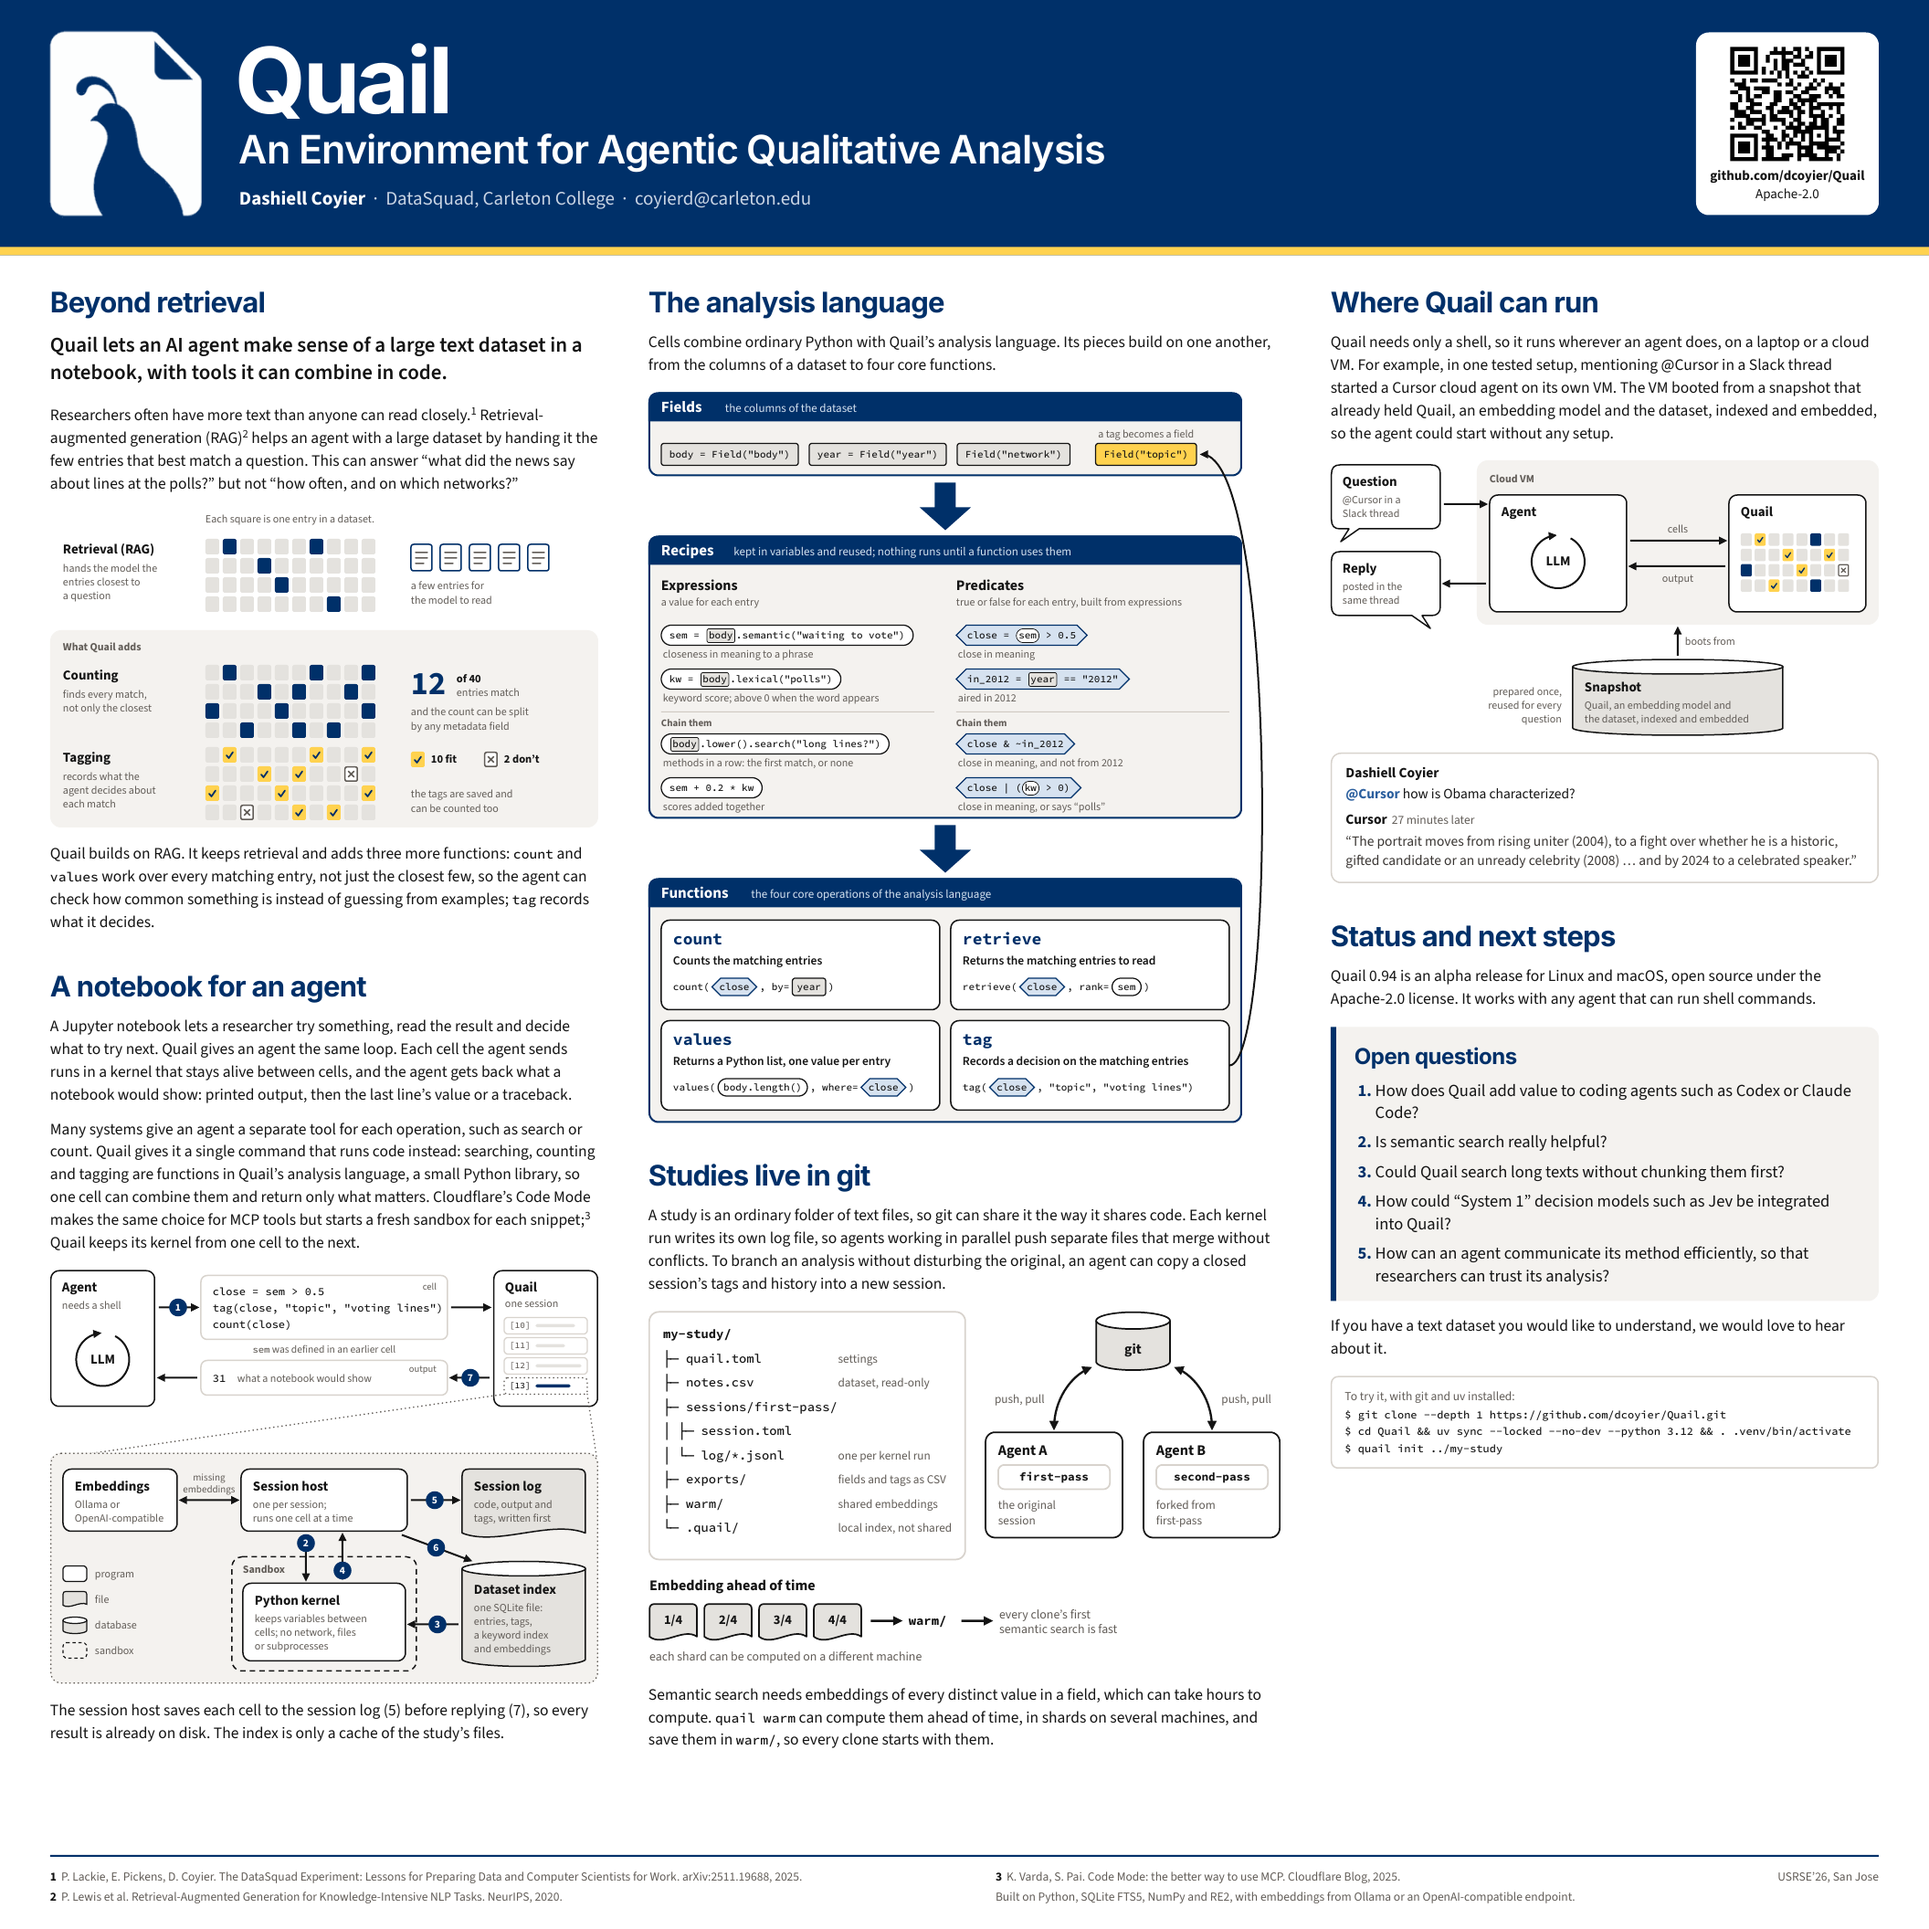
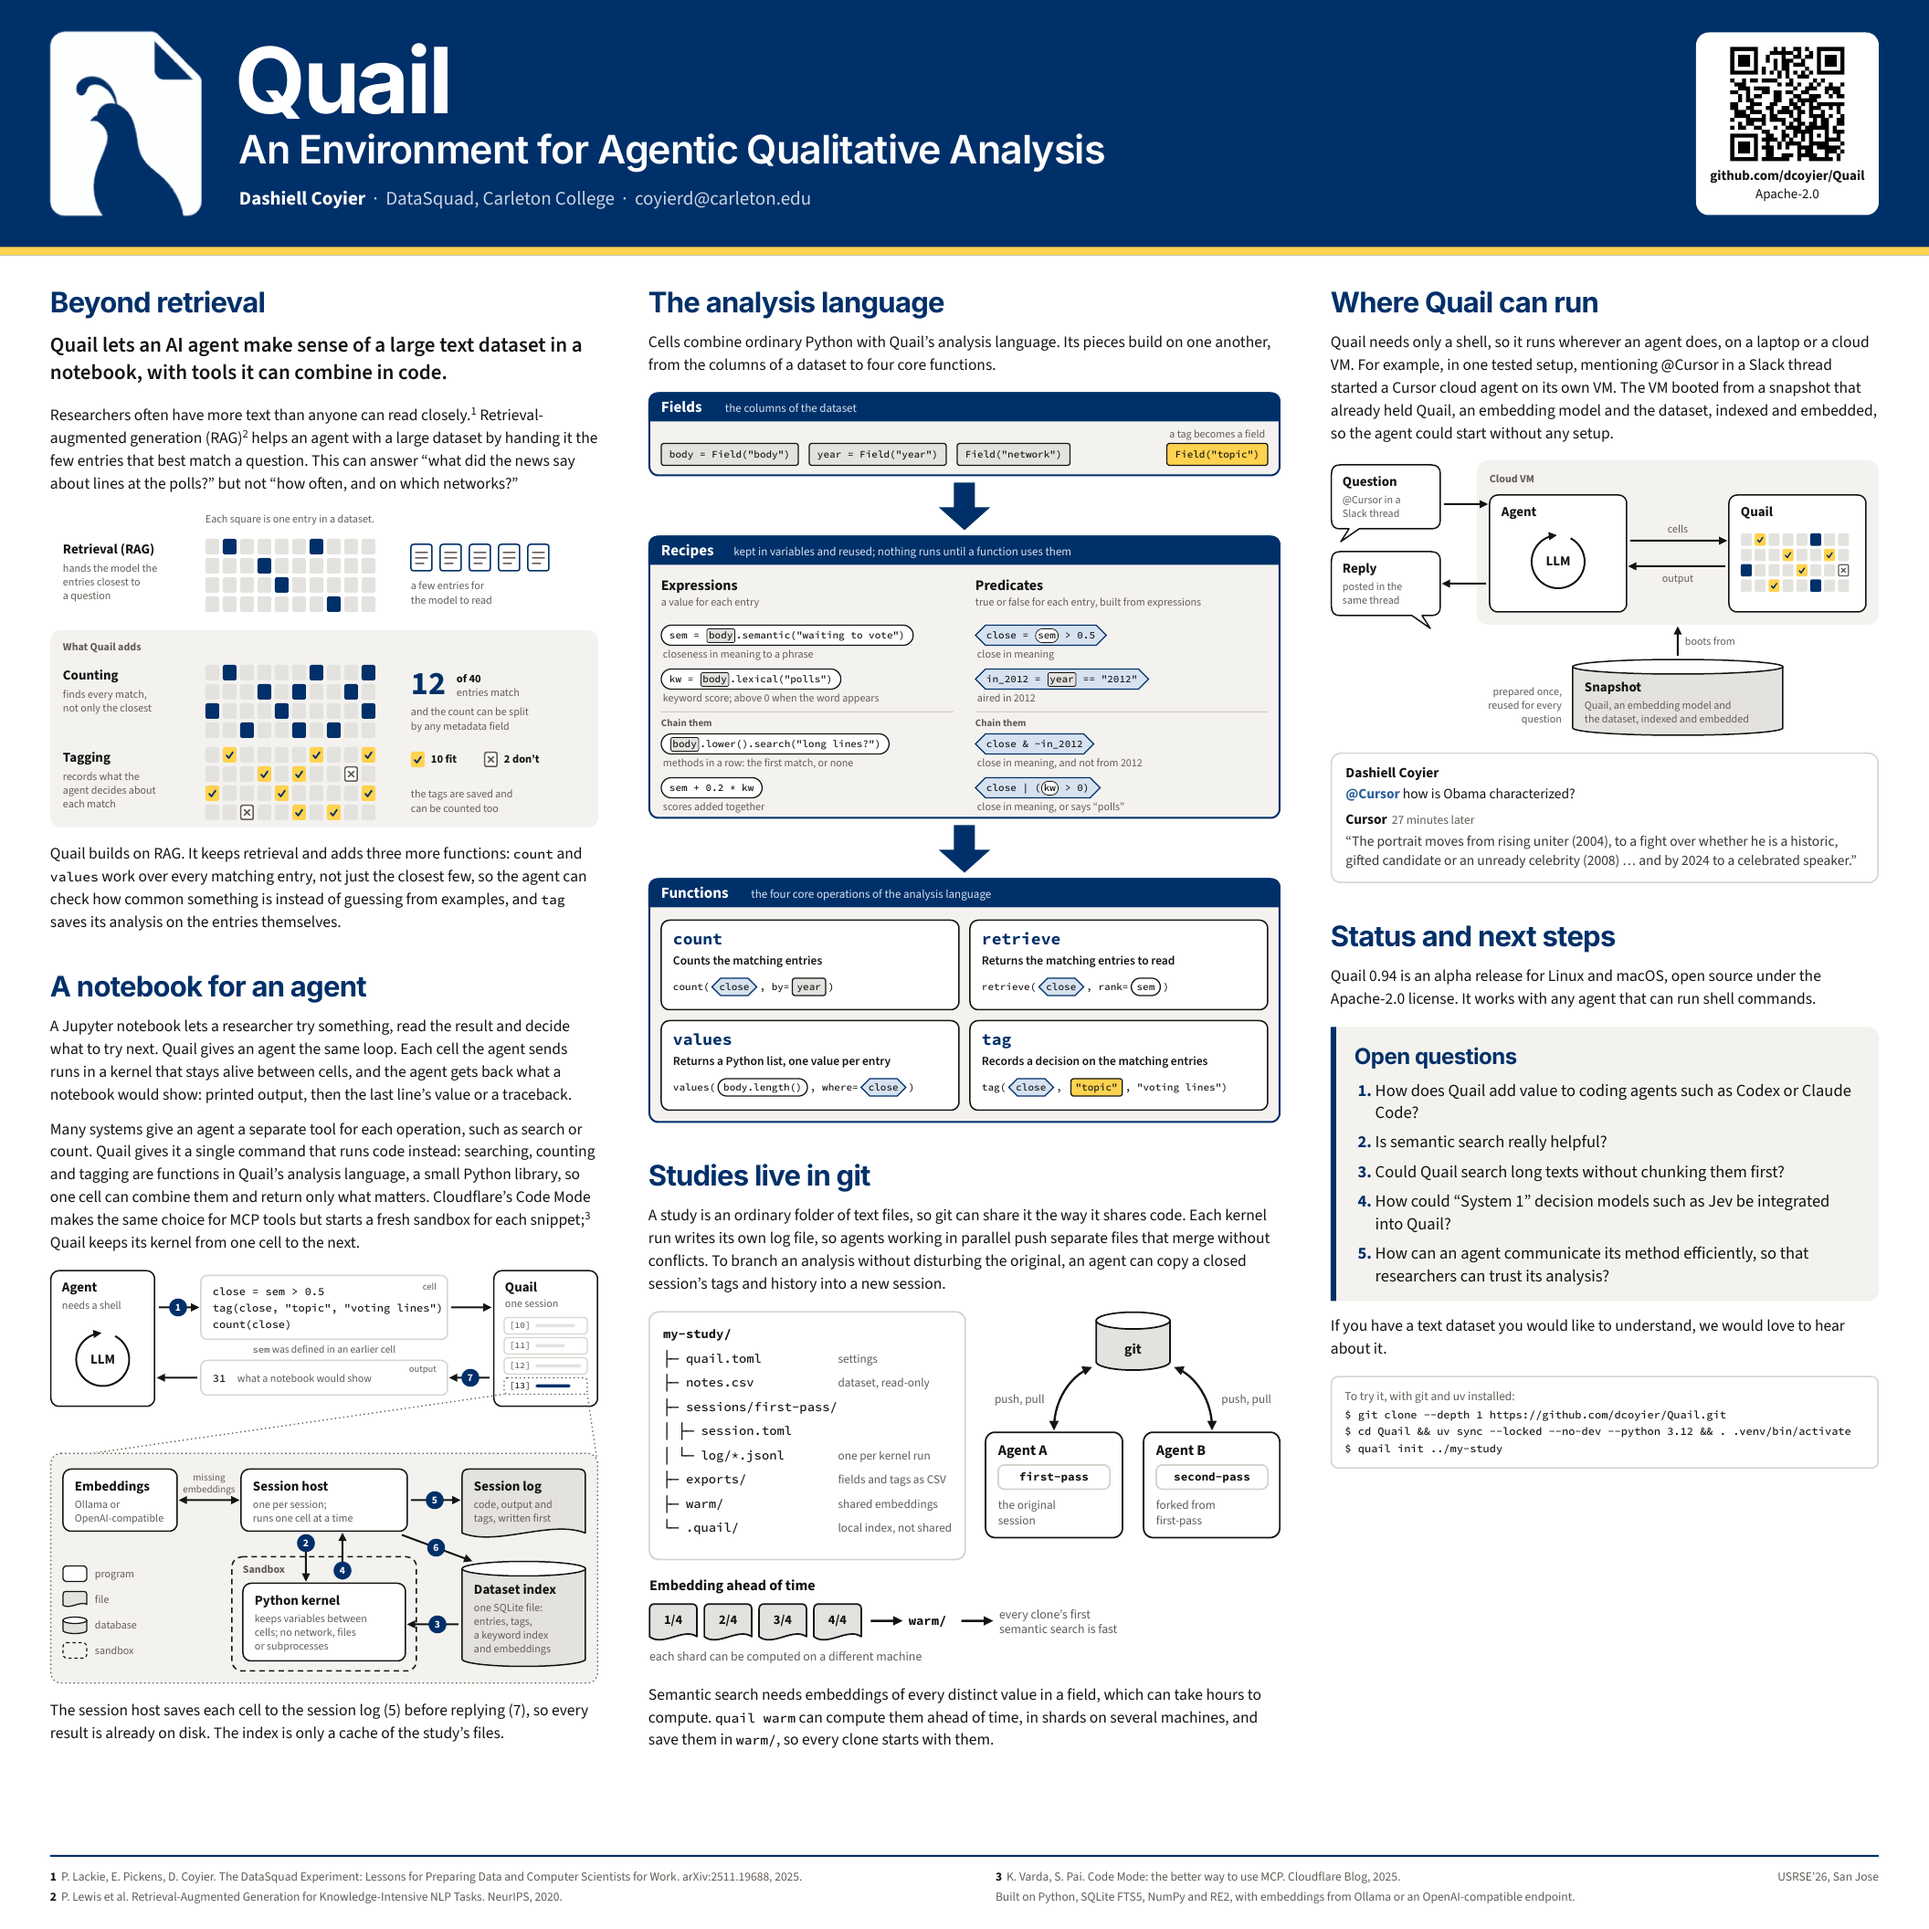
Mark the tag field in maize instead of drawing a loop to it
The language figure no longer draws an arrow from tag back to the
fields; "topic" in the tag example wears the maize tag-field chip, the
same as Field("topic") above, and the three levels use the full width
the arrow had kept free.

In the left column, tag "saves its analysis on the entries themselves"
rather than recording "what it decides".

Claude-Session: https://claude.ai/code/session_01ChZ8DmmKvsKSV4JFVieZLU

diff --git a/poster/poster.html b/poster/poster.html
@@ -29,7 +29,7 @@
   <p class="lede">Quail lets an AI agent make sense of a large text dataset in a notebook, with tools it can combine in code.</p>
   <p>Researchers often have more text than anyone can read closely.<sup>1</sup> Retrieval-augmented generation (RAG)<sup>2</sup> helps an agent with a large dataset by handing it the few entries that best match a question. This can answer &ldquo;what did the news say about lines at the polls?&rdquo; but not &ldquo;how often, and on which networks?&rdquo;</p>
   <figure><img src="figures/corpus.svg" alt="The same 40-entry dataset three times: retrieval picks five entries; counting finds all twelve matches; tagging marks ten as fitting and two as not"></figure>
-  <p>Quail builds on RAG. It keeps retrieval and adds three more functions: <code>count</code> and <code>values</code> work over every matching entry, not just the closest few, so the agent can check how common something is instead of guessing from examples; <code>tag</code> records what it decides.</p>
+  <p>Quail builds on RAG. It keeps retrieval and adds three more functions: <code>count</code> and <code>values</code> work over every matching entry, not just the closest few, so the agent can check how common something is instead of guessing from examples, and <code>tag</code> saves its analysis on the entries themselves.</p>
 </section>
 
 <section id="notebook">

diff --git a/poster/figures/language.py b/poster/figures/language.py
@@ -1,12 +1,12 @@
 """Writes language.svg: python3 poster/figures/language.py poster/figures/language.svg
 
 Analysis-language figure, top to bottom in the order things are built:
-Fields -> Recipes (expressions, predicates) -> Functions, with the tag loop back up.
+Fields -> Recipes (expressions, predicates) -> Functions; the tag field is maize wherever it appears.
 Mono text uses Source Code Pro's fixed advance (0.6 em) so code chips are sized exactly."""
 import sys
 from xml.sax.saxutils import escape
 
-W, CONTENT = 1384, 1300          # the right margin carries the tag loop
+W = CONTENT = 1384
 BLUE, MAIZE, BLUE_TINT = "#003069", "#FFD24F", "#D6E2F0"
 BAND, FIELD, INK = "#F4F2EF", "#E4E2DE", "#141414"
 MONO = 22
@@ -70,7 +70,7 @@ for parts in ([("body", None), (' = Field("body")', None)], [("year", None), (' 
     rrect(fx, chip_y, w, 48, "fieldchip", 6); t(fx + 18, chip_y + 32, text, "code"); fx += w + 24
 topic = 'Field("topic")'
 tw = code_w(topic) + 36
-tx = CONTENT - PAD - tw - 72
+tx = CONTENT - PAD - tw
 rrect(tx, chip_y, tw, 48, "tagchip", 6); t(tx + 18, chip_y + 32, topic, "code")
 t(tx + tw / 2, chip_y - 12, "a tag becomes a field", anchor="middle")
 
@@ -123,13 +123,11 @@ funcs = [
     ("count", "Counts the matching entries", [("count(", None), ("close", "p"), (", by=", None), ("year", "f"), (")", None)]),
     ("retrieve", "Returns the matching entries to read", [("retrieve(", None), ("close", "p"), (", rank=", None), ("sem", "e"), (")", None)]),
     ("values", "Returns a Python list, one value per entry", [("values(", None), ("body.length()", "e"), (", where=", None), ("close", "p"), (")", None)]),
-    ("tag", "Records a decision on the matching entries", [("tag(", None), ("close", "p"), (', "topic", "voting lines")', None)]),
+    ("tag", "Records a decision on the matching entries", [("tag(", None), ("close", "p"), (", ", None), ('"topic"', "t"), (', "voting lines")', None)]),
 ]
-cards = {}
 for i, (name, idea, parts) in enumerate(funcs):
     cx = PAD + (i % 2) * (card_w + 24)
     cy = FN_Y + HS + PAD + (i // 2) * (card_h + 24)
-    cards[name] = (cx, cy)
     rrect(cx, cy, card_w, card_h, "card", 18)
     t(cx + 26, cy + 54, name, "fname")
     t(cx + 26, cy + 98, idea, "idea")
@@ -137,28 +135,23 @@ for i, (name, idea, parts) in enumerate(funcs):
     for text, kind in parts:
         if kind is None:
             t(x, by, text, "code"); x += code_w(text); continue
-        pad = {"p": 22, "e": 18, "f": 16}[kind]
+        pad = {"p": 22, "e": 18, "f": 16, "t": 16}[kind]
         x += pad
         w = code_w(text)
         if kind == "p":
             hexagon(x - 16, by - 27, w + 32, 38, "predchip")
         elif kind == "e":
             rrect(x - 12, by - 27, w + 24, 38, "exprchip", 19)
-        else:
+        elif kind == "f":
             rrect(x - 10, by - 27, w + 20, 38, "fieldchip", 6)
+        else:
+            rrect(x - 10, by - 27, w + 20, 38, "tagchip", 6)
         t(x, by, text, "code"); x += w + pad
 
 # ---------- Level-to-level arrows ----------
 block_arrow(mid, F_Y + F_H + 14, R_Y - 12)
 block_arrow(mid, R_Y + R_H + 14, FN_Y - 12)
 
-# ---------- tag -> fields: a thinner loop up the right margin ----------
-tcx, tcy = cards["tag"]
-ly = tcy + card_h / 2
-lx = CONTENT + 42
-x0, y0 = tcx + card_w, ly
-x1, y1 = tx + tw + 12, chip_y + 24
-add(f'<path class="loop" d="M{x0:g},{y0:g} C{W-8:g},{y0:g} {W-8:g},{y1:g} {x1:g},{y1:g}" marker-end="url(#b)"/>')
 
 H = FN_Y + FN_H
 svg = f'''<?xml version="1.0" encoding="UTF-8"?>
@@ -173,8 +166,6 @@ svg = f'''<?xml version="1.0" encoding="UTF-8"?>
     .chain {{ font-size: 22px; font-weight: 700; fill: #625D58; }}
     .fname {{ font-family: 'Source Code Pro', monospace; font-size: 36px; font-weight: 700; fill: {BLUE}; font-variant-ligatures: none; }}
     .code {{ font-family: 'Source Code Pro', monospace; font-size: {MONO}px; font-weight: 500; font-variant-ligatures: none; }}
-    .ln {{ fill: none; stroke: {INK}; stroke-width: 4; stroke-linecap: butt; }}
-    .loop {{ fill: none; stroke: {INK}; stroke-width: 4; stroke-linecap: butt; stroke-linejoin: round; }}
     .card {{ fill: #fff; stroke: {INK}; stroke-width: 3; }}
     .predchip {{ fill: {BLUE_TINT}; stroke: {BLUE}; stroke-width: 2.5; }}
     .exprchip {{ fill: #fff; stroke: {INK}; stroke-width: 2.5; }}
@@ -183,14 +174,6 @@ svg = f'''<?xml version="1.0" encoding="UTF-8"?>
     .fieldmark {{ fill: {FIELD}; stroke: {INK}; stroke-width: 1.5; }}
     .exprmark {{ fill: #fff; stroke: {INK}; stroke-width: 1.5; }}
   </style>
-  <defs>
-    <marker id="a" viewBox="0 0 10 10" refX="7.5" refY="5" markerWidth="4.5" markerHeight="4.5" orient="auto-start-reverse">
-      <path d="M0,0 L10,5 L0,10 z" fill="{INK}"/>
-    </marker>
-    <marker id="b" viewBox="0 0 10 10" refX="7.5" refY="5" markerWidth="4.5" markerHeight="4.5" orient="auto-start-reverse">
-      <path d="M0,0 L10,5 L0,10 z" fill="{INK}"/>
-    </marker>
-  </defs>
 {chr(10).join(out)}
 </svg>
 '''
